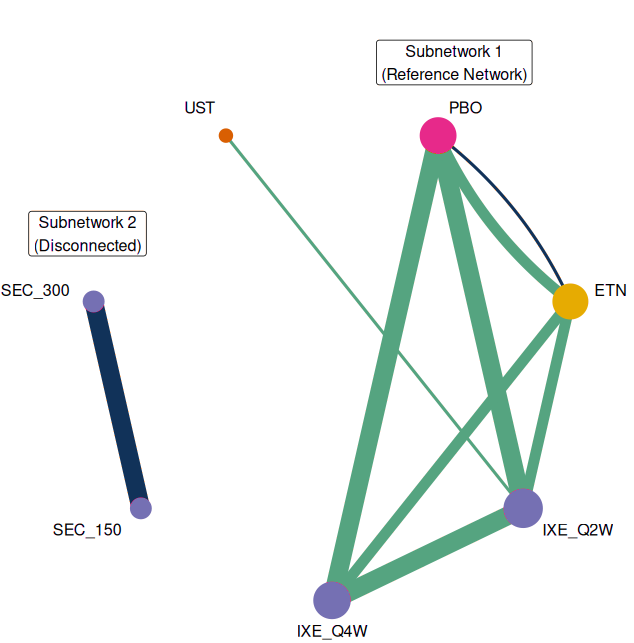
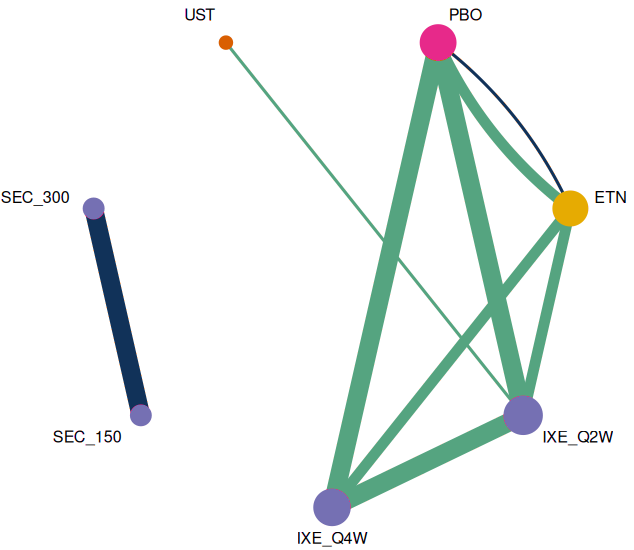
Slide 10: equal-size networks, readable sub-network labels, tidier tags
Claude-Session: https://claude.ai/code/session_01MtZagKiMcVbruPJo4aiuUZ

diff --git a/main.tex b/main.tex
@@ -477,39 +477,49 @@ $\theta_{\bullet jk} = \displaystyle\int g^{-1}\{\eta_{jk}(\bm{x})\}\, f_{jk}(\b
 
 % =====================================================================
 \newcommand{\bridgetag}[3]{\begin{tcolorbox}[enhanced,colback=#1,frame hidden,borderline west={1.2mm}{0mm}{#2},arc=1mm,left=2.5mm,right=1mm,top=1mm,bottom=1mm,fontupper=\scriptsize]#3\end{tcolorbox}}
+{\renewcommand{\footleft}{Edges: navy AgD, green IPD \textperiodcentered{} \%: overlap ESS of the anchor pair (external studies paired with IXORA-S)}
 \begin{frame}{Psoriasis: break a network, rebuild it}{Case study}
 \begin{columns}[c,onlytextwidth]
-\column{0.27\textwidth}
+\column{0.30\textwidth}
 \centering
-\includegraphics[height=28mm]{figures/network_full.png}\par
+\begin{minipage}[b][29.5mm][b]{\linewidth}\centering
+\includegraphics[width=\linewidth,height=27mm,keepaspectratio]{figures/network_full.png}
+\end{minipage}\par\vspace{1mm}
 {\scriptsize\bfseries Fully connected (benchmark)}
-\column{0.05\textwidth}
-\centering\tikz\draw[bristolred,flowarrow] (0,0) -- (5mm,0);
-\column{0.24\textwidth}
+\column{0.30\textwidth}
 \centering
-\includegraphics[height=28mm]{figures/network_disconnected.png}\par
+\begin{minipage}[b][29.5mm][b]{\linewidth}\centering
+\begin{tikzpicture}
+  \node[inner sep=0,anchor=south west] (img) at (0,0) {\includegraphics[width=\linewidth,height=27mm,keepaspectratio]{figures/network_disconnected.png}};
+  \begin{scope}[x={(img.south east)},y={(img.north west)}]
+    \node[draw=muted,fill=white,rounded corners=1mm,inner sep=0.8mm,font=\tiny\bfseries,align=center] at (0.13,0.80) {Sub-network 2\\(disconnected)};
+    \node[draw=muted,fill=white,rounded corners=1mm,inner sep=0.8mm,font=\tiny\bfseries,align=center,anchor=south] at (0.68,1.01) {Sub-network 1 (reference)};
+  \end{scope}
+\end{tikzpicture}
+\end{minipage}\par\vspace{1mm}
 {\scriptsize\bfseries\color{bristolred}Artificially disconnected}
-\column{0.40\textwidth}
-\begin{itemize}\setlength{\itemsep}{1mm}\small
+\column{0.36\textwidth}
+\begin{itemize}\setlength{\itemsep}{1mm}\footnotesize
 \item 9 RCTs: 4 IPD, 5 AgD
 \item 6 active treatments and placebo
 \item PASI 75, 90 and 100 at 12 weeks
-\item Secukinumab cut off from placebo
-\item Each bridge vs the connected ML-NMR
+\item Secukinumab cut off from PBO
+\item Each bridge vs the full network
 \end{itemize}
 \end{columns}
 \vfill
 \begin{tcbraster}[raster columns=3,raster equal height,raster column skip=2.5mm,raster row skip=1.5mm]
-\bridgetag{tealbg}{randteal}{\textbf{Random-1P} \textperiodcentered{} prior on ERASURE only}
-\bridgetag{orangebg}{fixorange}{\textbf{Fixed} \textperiodcentered{} UNCOVER-3 + ERASURE (97\%)}
-\bridgetag{sand}{extgrey}{\textbf{External} \textperiodcentered{} IXORA-S + PROSPECT (89\%)}
+\bridgetag{tealbg}{randteal}{\textbf{Random-1P} \textperiodcentered{} prior on ERASURE}
+\bridgetag{orangebg}{fixorange}{\textbf{Fixed} \textperiodcentered{} UNC-3 + ERA (97\%)}
+\bridgetag{sand}{extgrey}{\textbf{External} \textperiodcentered{} PROSPECT (89\%)}
 \bridgetag{tealbg}{randteal}{\textbf{Random-3P} \textperiodcentered{} prior on all three}
-\bridgetag{orangebg}{fixorange}{\textbf{Fixed} \textperiodcentered{} JUNCTURE + IXORA-S (74\%)}
-\bridgetag{sand}{extgrey}{\textbf{External} \textperiodcentered{} IXORA-S + Chiricozzi (77\%)}
+\bridgetag{orangebg}{fixorange}{\textbf{Fixed} \textperiodcentered{} JUNC + IXOR (74\%)}
+\bridgetag{sand}{extgrey}{\textbf{External} \textperiodcentered{} Chiricozzi (77\%)}
 \end{tcbraster}
-\vspace{1mm}{\tiny\color{muted}Edges: navy AgD, green IPD \textperiodcentered{} node colour: treatment class \textperiodcentered{} bracketed: overlap ESS\% between the anchor studies\par}\vspace{1mm}
+
 \note{\textasciitilde 1:00. To test this we need a ground truth, so we take a connected network and break it. It's a plaque psoriasis network: nine RCTs, six active treatments plus placebo, four with IPD and five with aggregate data, outcomes PASI 75, 90 and 100. We remove CLEAR, the placebo arms of the secukinumab trials and the secukinumab arms of FIXTURE, so secukinumab is cut off from placebo. Then we rebuild it six ways. Two random bridges, with the predictive prior on one or all three disconnected studies. Two internal fixed bridges, the highest and a lower overlap pair. And two external fixed bridges through observational studies. The lower-overlap and external bridges are there to show how the diagnostics behave, not as choices we'd recommend. Each is compared with the fully connected ML-NMR.}
 \end{frame}
+}
 
 % =====================================================================
 % Forest plot: probability of PASI 75, FIXTURE population, ML-NMR (Appendix Table A3)
